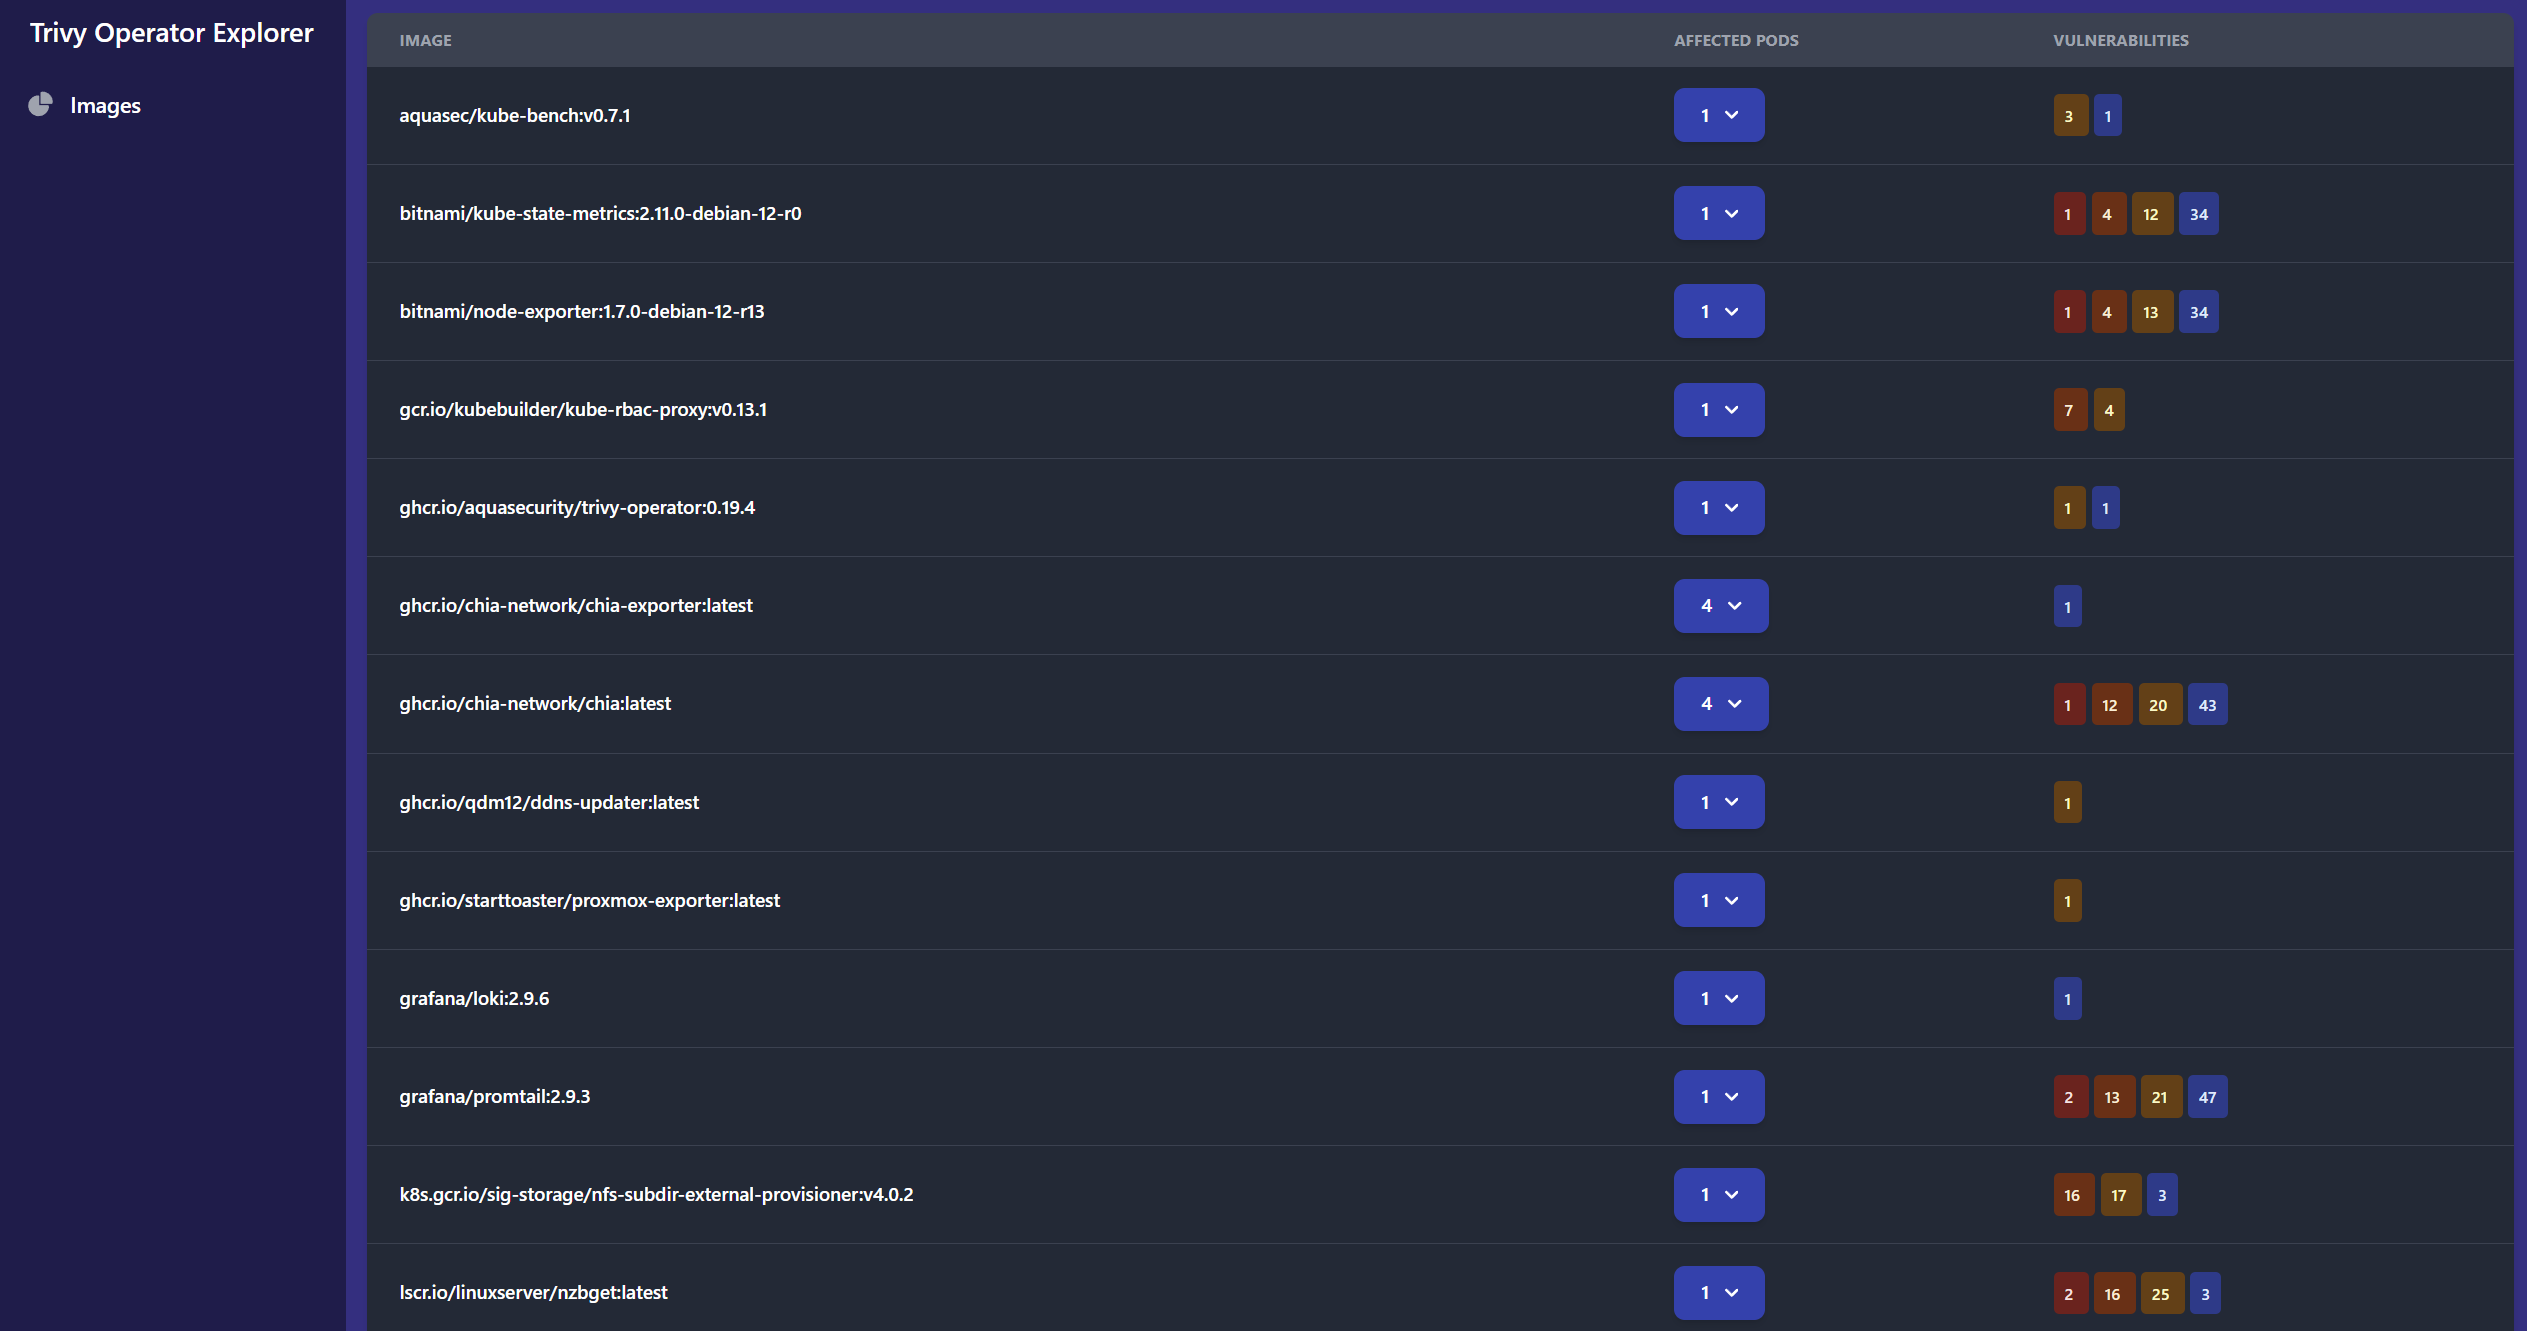
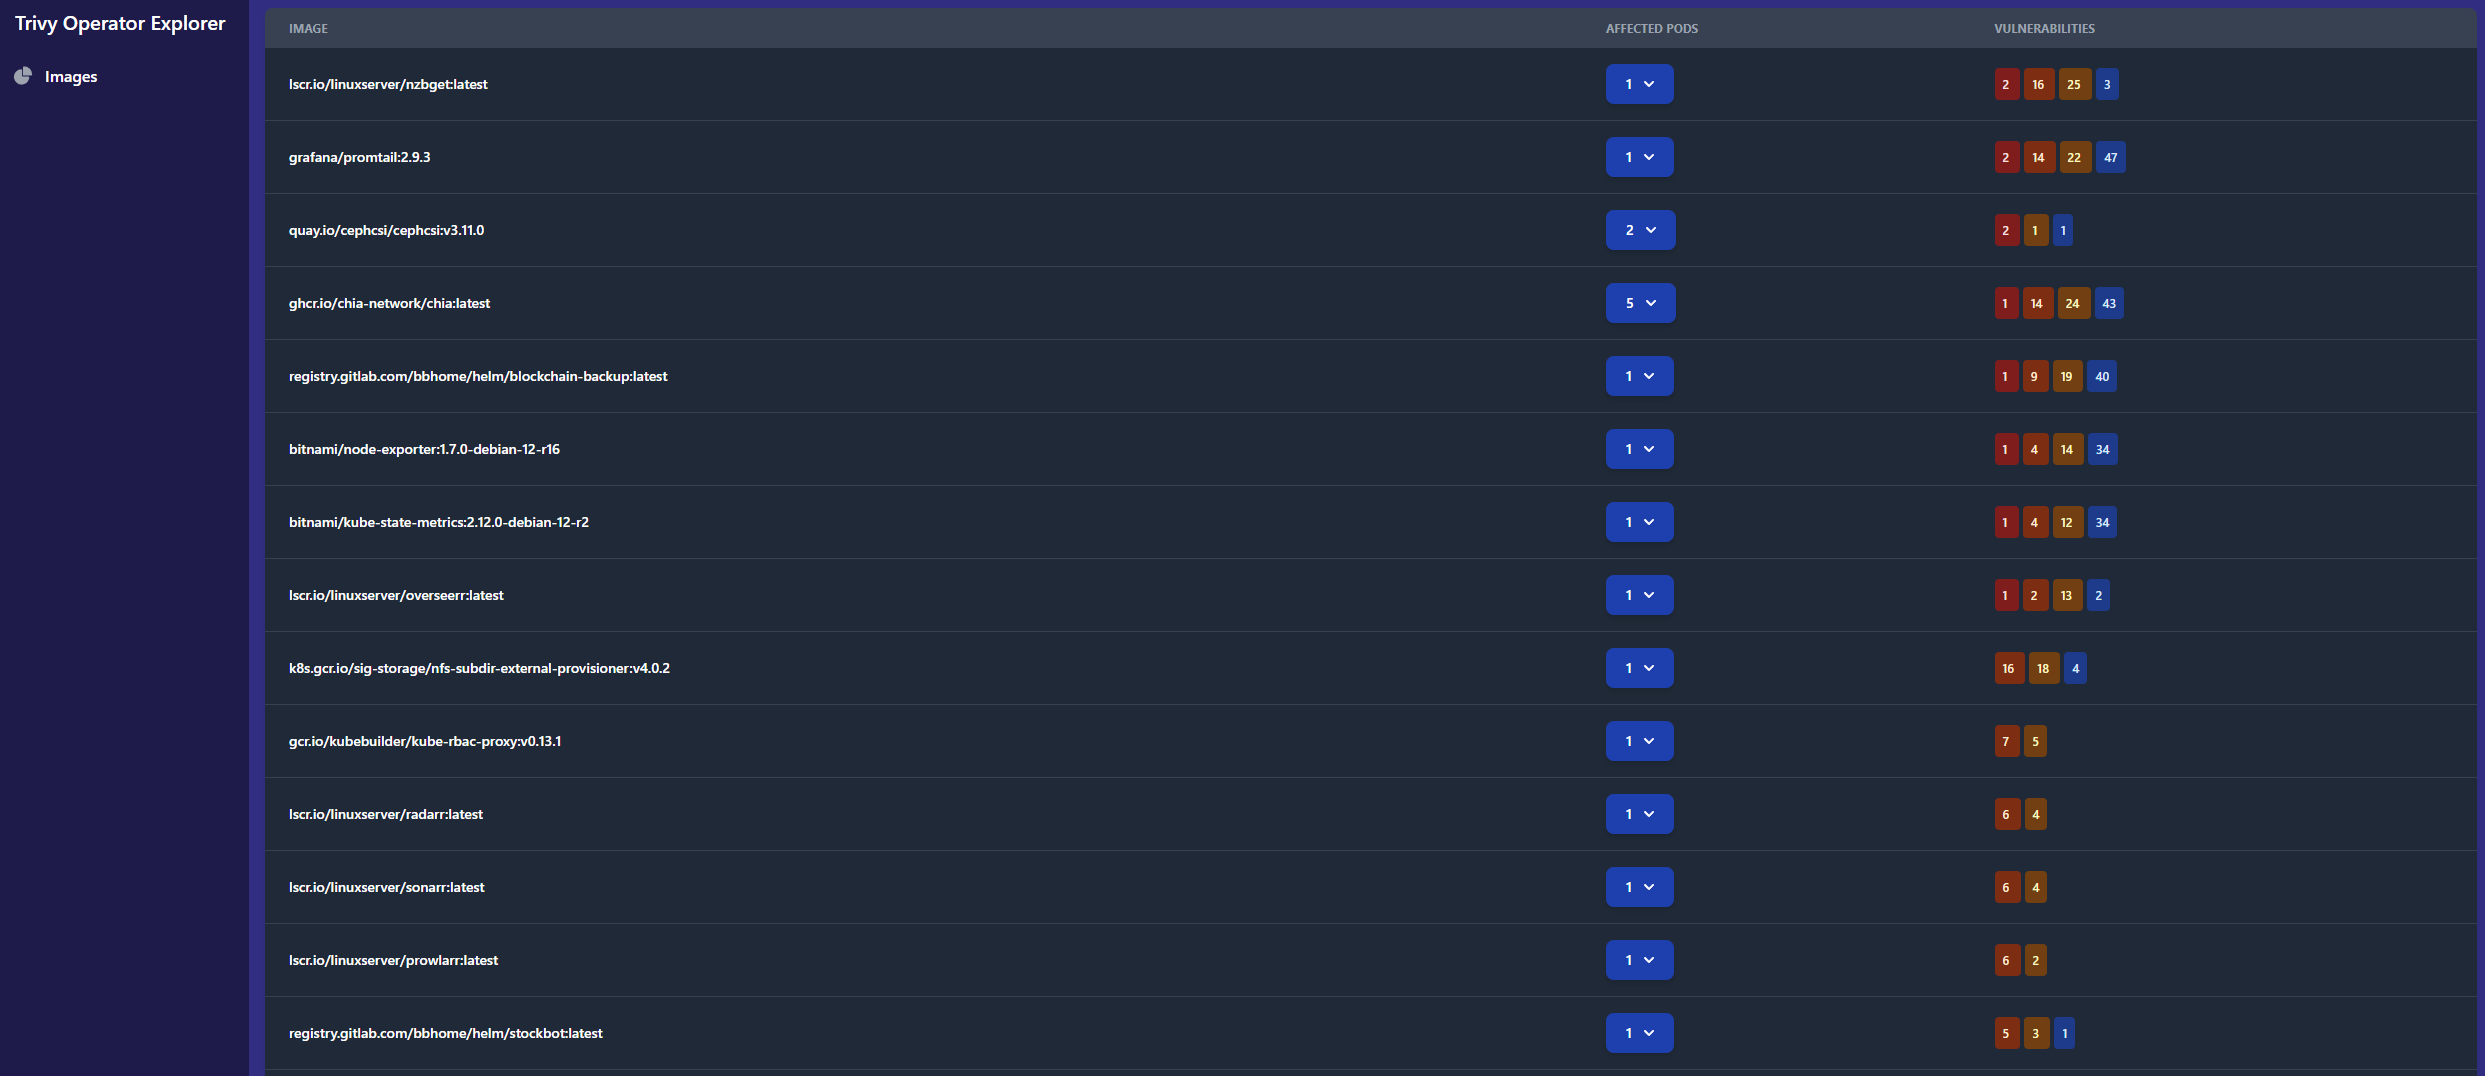
Sort images view by vulnerability severities (#6)
* Add new constants for various important operator metrics

* Sort images view by severity counters

* Update index screenshot

* golint: fix comment

Changed region(s): [[0.0, 0.0, 1.0, 1.0], [0.8056, 0.7361, 0.8986, 1.0], [0.0, 0.0613, 0.062, 0.092]]

diff --git a/static/images.html b/static/images.html
@@ -48,12 +48,12 @@
                 </thead>
                 <!-- Table body -->
                 <tbody>
-                    {{ range $image, $data := .Images }}
+                    {{ range $data := .SortedImages }}
                     <tr class="bg-white border-b dark:bg-gray-800 dark:border-gray-700">
                         <!-- Image column -->
                         <th scope="row" class="px-6 py-4 font-medium text-gray-900 whitespace-nowrap dark:text-white">
-                            <a href="/image?image={{ $image.Image }}&digest={{ $image.Digest }}" title="{{ $image.Digest }}">
-                                {{ $image.Image }}
+                            <a href="/image?image={{ $data.Name }}&digest={{ $data.Digest }}" title="{{ $data.Digest }}">
+                                {{ $data.Name }}
                             </a>
                         </th>
                         <!-- Affected Pods column -->
@@ -79,22 +79,22 @@
                         <!-- Vulnerabilities column -->
                         <td class="px-6 py-4">
                             {{ if ne $data.CriticalVulnerabilities 0 }}
-                            <a href="/image?image={{ $image.Image }}&digest={{ $image.Digest }}&severity=Critical" title="Critical" class="bg-red-100 text-red-800 text-xs font-medium me-1 px-2 py-2 rounded dark:bg-red-900 dark:text-red-100">
+                            <a href="/image?image={{ $data.Name }}&digest={{ $data.Digest }}&severity=Critical" title="Critical" class="bg-red-100 text-red-800 text-xs font-medium me-1 px-2 py-2 rounded dark:bg-red-900 dark:text-red-100">
                                 {{ $data.CriticalVulnerabilities }}
                             </a>
                             {{ end }}
                             {{ if ne $data.HighVulnerabilities 0 }}
-                            <a href="/image?image={{ $image.Image }}&digest={{ $image.Digest }}&severity=High" title="High" class="bg-orange-100 text-orange-800 text-xs font-medium me-1 px-2 py-2 rounded dark:bg-orange-900 dark:text-orange-100">
+                            <a href="/image?image={{ $data.Name }}&digest={{ $data.Digest }}&severity=High" title="High" class="bg-orange-100 text-orange-800 text-xs font-medium me-1 px-2 py-2 rounded dark:bg-orange-900 dark:text-orange-100">
                                 {{ $data.HighVulnerabilities }}
                             </a>
                             {{ end }}
                             {{ if ne $data.MediumVulnerabilities 0 }}
-                            <a href="/image?image={{ $image.Image }}&digest={{ $image.Digest }}&severity=Medium" title="Medium" class="bg-yellow-100 text-yellow-800 text-xs font-medium me-1 px-2 py-2 rounded dark:bg-yellow-900 dark:text-yellow-100">
+                            <a href="/image?image={{ $data.Name }}&digest={{ $data.Digest }}&severity=Medium" title="Medium" class="bg-yellow-100 text-yellow-800 text-xs font-medium me-1 px-2 py-2 rounded dark:bg-yellow-900 dark:text-yellow-100">
                                 {{ $data.MediumVulnerabilities }}
                             </a>
                             {{ end }}
                             {{ if ne $data.LowVulnerabilities 0 }}
-                            <a href="/image?image={{ $image.Image }}&digest={{ $image.Digest }}&severity=Low" title="Low" class="bg-blue-100 text-blue-800 text-xs font-medium me-1 px-2 py-2 rounded dark:bg-blue-900 dark:text-blue-100">
+                            <a href="/image?image={{ $data.Name }}&digest={{ $data.Digest }}&severity=Low" title="Low" class="bg-blue-100 text-blue-800 text-xs font-medium me-1 px-2 py-2 rounded dark:bg-blue-900 dark:text-blue-100">
                                 {{ $data.LowVulnerabilities }}
                             </a>
                             {{ end }}

diff --git a/static/image.html b/static/image.html
@@ -1,6 +1,6 @@
 <!DOCTYPE html>
 <html lang="en">
-  <title>{{ .Image }}</title>
+  <title>{{ .Name }}</title>
   <meta charset="UTF-8">
   <meta name="viewport" content="width=device-width, initial-scale=1.0">
   <link href="/static/css/output.css" rel="stylesheet">
@@ -33,7 +33,7 @@
           <div class="hidden w-full md:block md:w-auto" id="navbar-default">
             <ul class="font-medium flex flex-col p-4 md:p-0 mt-4 border border-gray-100 rounded-lg bg-gray-50 md:flex-row md:space-x-8 rtl:space-x-reverse md:mt-0 md:border-0 md:bg-white dark:bg-gray-800 md:dark:bg-gray-900 dark:border-gray-700">
               <li>
-                <span class="block py-2 px-3 text-white bg-blue-700 rounded md:bg-transparent md:text-blue-700 md:p-0 dark:text-white md:dark:text-blue-200" aria-current="page">{{ .Image }}</span>
+                <span class="block py-2 px-3 text-white bg-blue-700 rounded md:bg-transparent md:text-blue-700 md:p-0 dark:text-white md:dark:text-blue-200" aria-current="page">{{ .Name }}</span>
               </li>
               <li>
                 <span class="block py-2 px-3 text-white bg-blue-700 rounded md:bg-transparent md:text-blue-400 md:p-0 dark:text-white md:dark:text-blue-500" aria-current="page">{{ .Digest }}</span>

diff --git a/internal/web/views/images.go b/internal/web/views/images.go
@@ -10,9 +10,6 @@ import (
 	log "github.com/starttoaster/trivy-operator-explorer/internal/logger"
 )
 
-// TrivyImageVulnerabilityMetricName the metric key for image vulnerability data
-const TrivyImageVulnerabilityMetricName = "trivy_vulnerability_id"
-
 // GetImagesView converts some scrape data to the /images view
 func GetImagesView(data *scraper.ScrapeData) ImagesView {
 	var i ImagesView
@@ -26,9 +23,9 @@ func GetImagesView(data *scraper.ScrapeData) ImagesView {
 			if gauge.Labels["image_registry"] == "index.docker.io" {
 				// If Docker Hub, trim the registry prefix for readability
 				// Also trims `library/` from the prefix of the image name, which is a hidden username for Docker Hub official images
-				image.Image = fmt.Sprintf("%s:%s", strings.TrimPrefix(gauge.Labels["image_repository"], "library/"), gauge.Labels["image_tag"])
+				image.Name = fmt.Sprintf("%s:%s", strings.TrimPrefix(gauge.Labels["image_repository"], "library/"), gauge.Labels["image_tag"])
 			} else {
-				image.Image = fmt.Sprintf("%s/%s:%s", gauge.Labels["image_registry"], gauge.Labels["image_repository"], gauge.Labels["image_tag"])
+				image.Name = fmt.Sprintf("%s/%s:%s", gauge.Labels["image_registry"], gauge.Labels["image_repository"], gauge.Labels["image_tag"])
 			}
 			image.Digest = gauge.Labels["image_digest"]
 			podData := PodMetadata{
@@ -42,7 +39,7 @@ func GetImagesView(data *scraper.ScrapeData) ImagesView {
 					log.Logger.Error("could not convert string to float32",
 						"error", err.Error(),
 						"score", gauge.Labels["vuln_score"],
-						"image", image.Image,
+						"image", image.Name,
 					)
 					continue
 				}
@@ -76,6 +73,8 @@ func GetImagesView(data *scraper.ScrapeData) ImagesView {
 				podMap := make(map[PodMetadata]struct{})
 				vulnMap := make(map[string]Vulnerability)
 				imageData := ImageData{
+					Name:            image.Name,
+					Digest:          image.Digest,
 					Vulnerabilities: vulnMap,
 					Pods:            podMap,
 				}
@@ -87,6 +86,7 @@ func GetImagesView(data *scraper.ScrapeData) ImagesView {
 	}
 
 	i = setImagesViewVulnerabilityCounters(i)
+	i = sortImagesView(i)
 
 	return i
 }
@@ -107,6 +107,31 @@ func setImagesViewVulnerabilityCounters(i ImagesView) ImagesView {
 			i.Images[k] = v
 		}
 	}
+	return i
+}
+
+func sortImagesView(i ImagesView) ImagesView {
+	for _, v := range i.Images {
+		i.SortedImages = append(i.SortedImages, v)
+	}
+
+	// Sort the slice by severity in descending order
+	sort.Slice(i.SortedImages, func(j, k int) bool {
+		if i.SortedImages[j].CriticalVulnerabilities != i.SortedImages[k].CriticalVulnerabilities {
+			return i.SortedImages[j].CriticalVulnerabilities > i.SortedImages[k].CriticalVulnerabilities
+		}
+
+		if i.SortedImages[j].HighVulnerabilities != i.SortedImages[k].HighVulnerabilities {
+			return i.SortedImages[j].HighVulnerabilities > i.SortedImages[k].HighVulnerabilities
+		}
+
+		if i.SortedImages[j].MediumVulnerabilities != i.SortedImages[k].MediumVulnerabilities {
+			return i.SortedImages[j].MediumVulnerabilities > i.SortedImages[k].MediumVulnerabilities
+		}
+
+		return i.SortedImages[j].LowVulnerabilities > i.SortedImages[k].LowVulnerabilities
+	})
+
 	return i
 }
 

diff --git a/internal/web/views/const.go b/internal/web/views/const.go
@@ -1,0 +1,30 @@
+package views
+
+const (
+	// TrivyImageVulnerabilityMetricName the metric key for image vulnerability data
+	TrivyImageVulnerabilityMetricName = "trivy_vulnerability_id"
+
+	// TrivyImageInfoMetricName gives info on the images running in the cluster like base distro
+	TrivyImageInfoMetricName = "trivy_image_info"
+
+	// TrivyRbacAssessmentMetricName gives info on potentially over-giving rbac Roles/ClusterRoles
+	TrivyRbacAssessmentMetricName = "trivy_rbacassessments_info"
+
+	// TrivyRbacAssessmentCountersMetricName gives counters of rbac issues for each Role/ClusterRole by severity
+	TrivyRbacAssessmentCountersMetricName = "trivy_role_rbacassessments"
+
+	// TrivyConfigAuditsMetricName gives info on in-cluster resource compliance tests
+	TrivyConfigAuditsMetricName = "trivy_configaudits_info"
+
+	// TrivyConfigAuditsCountersMetricName gives counters of in-cluster resource compliance test failures by resource and by severity
+	TrivyConfigAuditsCountersMetricName = "trivy_resource_configaudits"
+
+	// TrivyExposedSecretsMetricName gives info on discovered exposed secrets in images
+	TrivyExposedSecretsMetricName = "trivy_exposedsecrets_info"
+
+	// TrivyExposedSecretsCountersMetricName gives counters on discovered exposed secrets by image and by severity
+	TrivyExposedSecretsCountersMetricName = "trivy_image_exposedsecrets"
+
+	// TrivyClusterComplianceMetricName gives pass/fail outcomes on cluster compliance tests, usually for control plane components
+	TrivyClusterComplianceMetricName = "trivy_compliance_info"
+)

diff --git a/internal/web/views/types.go b/internal/web/views/types.go
@@ -2,17 +2,20 @@ package views
 
 // ImagesView contains data about images running in a kubernetes cluster with vulnerabilities
 type ImagesView struct {
-	Images map[Image]ImageData
+	Images       map[Image]ImageData
+	SortedImages []ImageData
 }
 
 // Image contains data about an image
 type Image struct {
-	Image  string
+	Name   string
 	Digest string
 }
 
 // ImageData contains data about image vulnerabilities and metadata about the Pods running those images
 type ImageData struct {
+	Name                    string
+	Digest                  string
 	Pods                    map[PodMetadata]struct{}
 	Vulnerabilities         map[string]Vulnerability
 	CriticalVulnerabilities int
@@ -45,11 +48,10 @@ type Vulnerability struct {
 
 // ImageVulnerabilityView contains the view data for the `/image` server path
 type ImageVulnerabilityView struct {
-	// Image is the name of the image containing vulnerabilities
-	Image string
+	// Name is the name of the image containing vulnerabilities
+	Name string
 	// Digest is the string image hash
 	Digest string
-
 	// Data contains a slice of all the vulnerabilities for the given image
 	Data []ImageVulnerabilityData
 }

diff --git a/internal/web/server.go b/internal/web/server.go
@@ -89,7 +89,7 @@ func imageHandler(w http.ResponseWriter, r *http.Request) {
 	}
 	imageData := views.GetImagesView(data)
 	v, ok := imageData.Images[views.Image{
-		Image:  imageName,
+		Name:   imageName,
 		Digest: imageDigest,
 	}]
 	if !ok {
@@ -100,7 +100,7 @@ func imageHandler(w http.ResponseWriter, r *http.Request) {
 
 	// Get vulnerability list that matches filters
 	view := views.ImageVulnerabilityView{
-		Image:  imageName,
+		Name:   imageName,
 		Digest: imageDigest,
 	}
 	for id, vuln := range v.Vulnerabilities {
